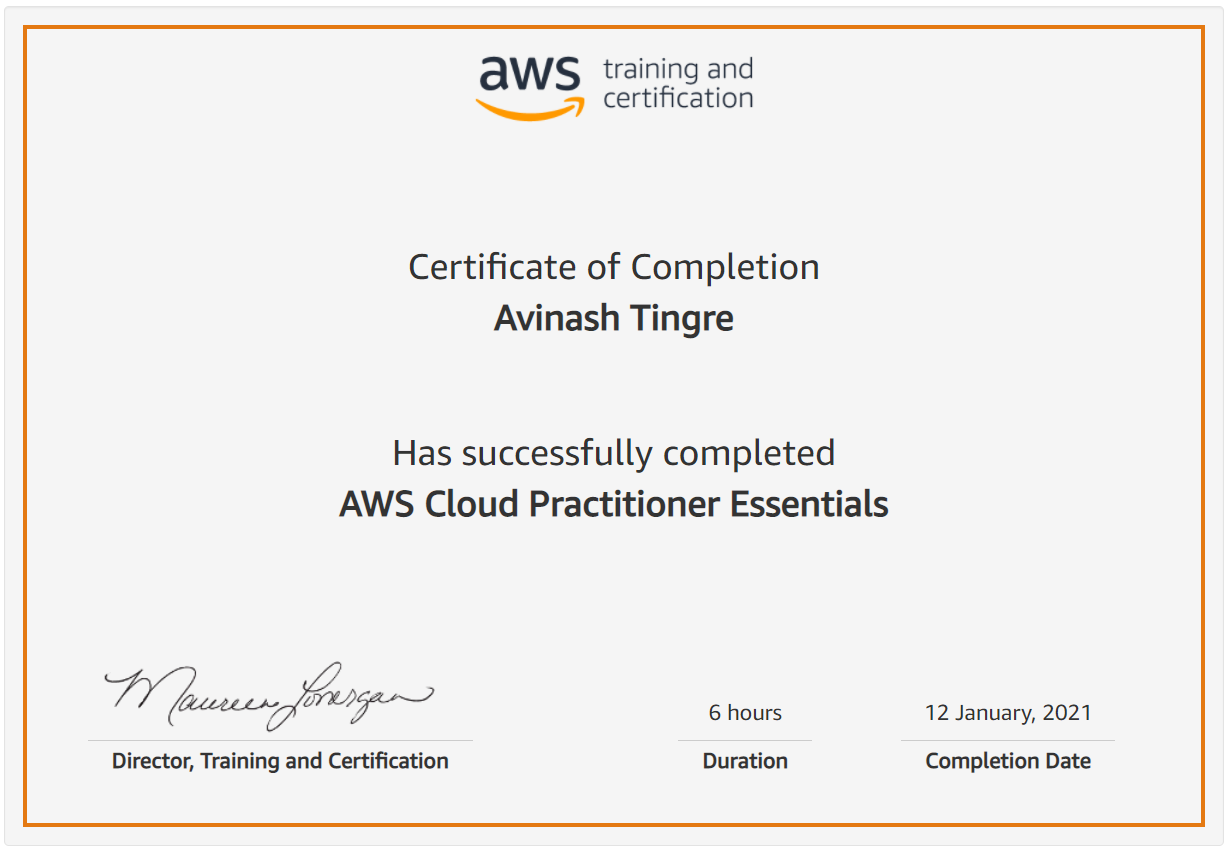
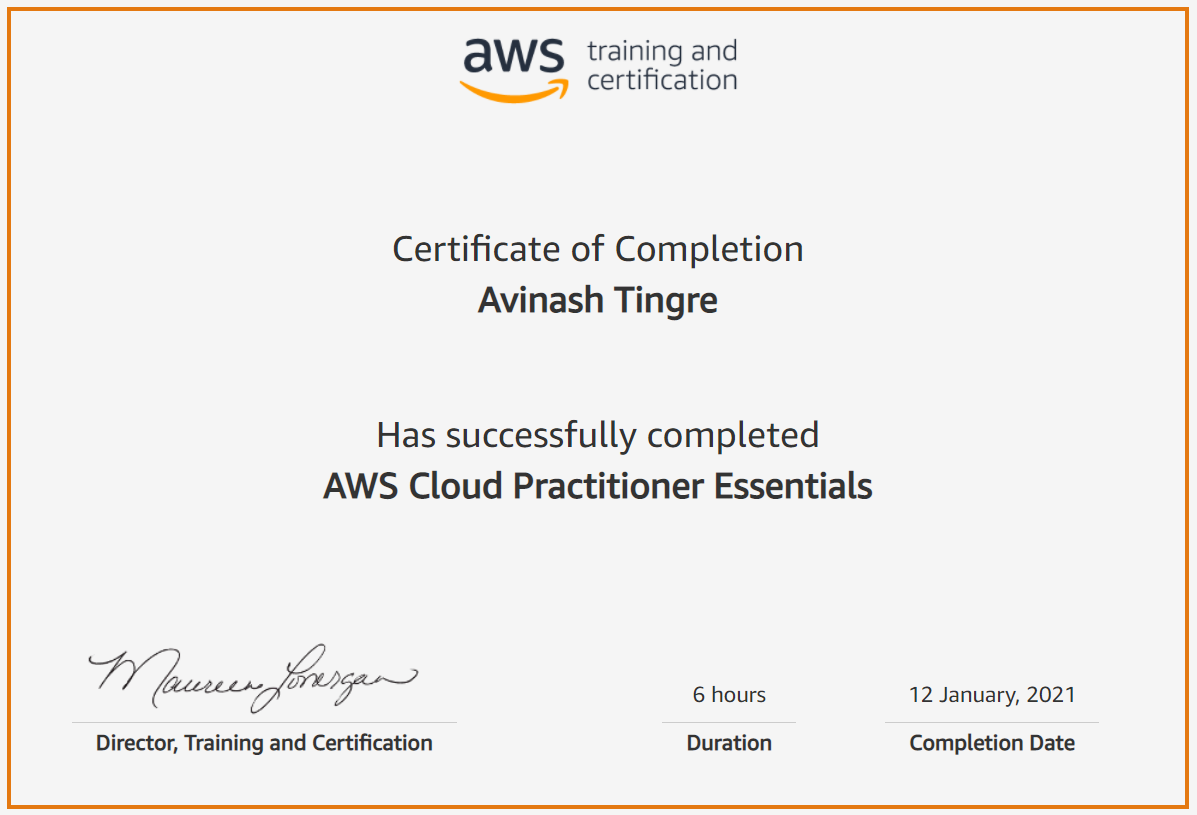
Few changes

diff --git a/css/resume.css b/css/resume.css
@@ -5,6 +5,23 @@
   --chip-bg-color: #333;
   --mark-background: #fff09b;
 }
+.card-title{
+	text-transform: none;
+}
+.cert-expand{
+	outline: none;
+    box-shadow: inherit !important;
+    position: absolute;
+    bottom: 0.5rem;
+    right: 0.5rem;
+    font-size: 2rem;
+    transition: color 0.3s, transform 0.3s;
+}
+.cert-expand:hover{
+	color: crimson;
+	transform: scale(1.3);
+}
+
 .section-heading {
 	transition-property: margin-left;
 	transition-duration: 0.5s;
